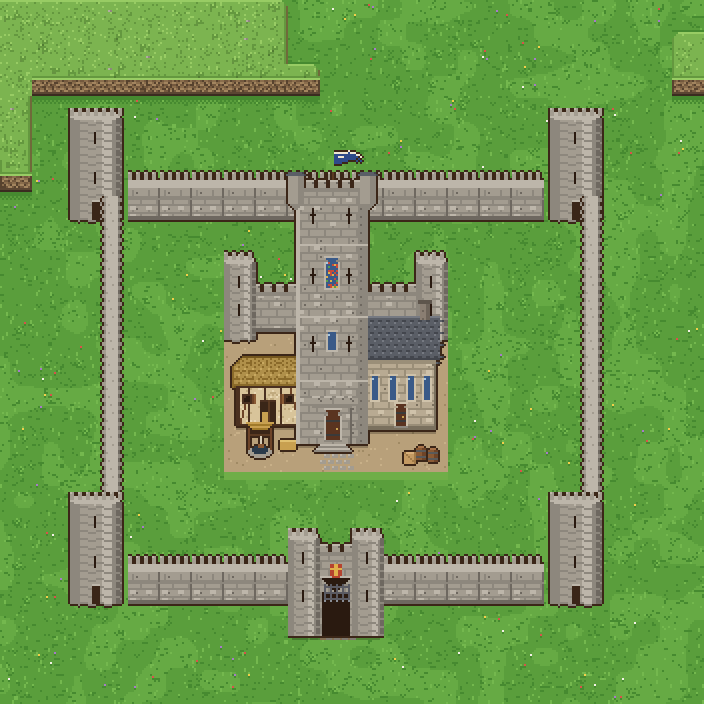
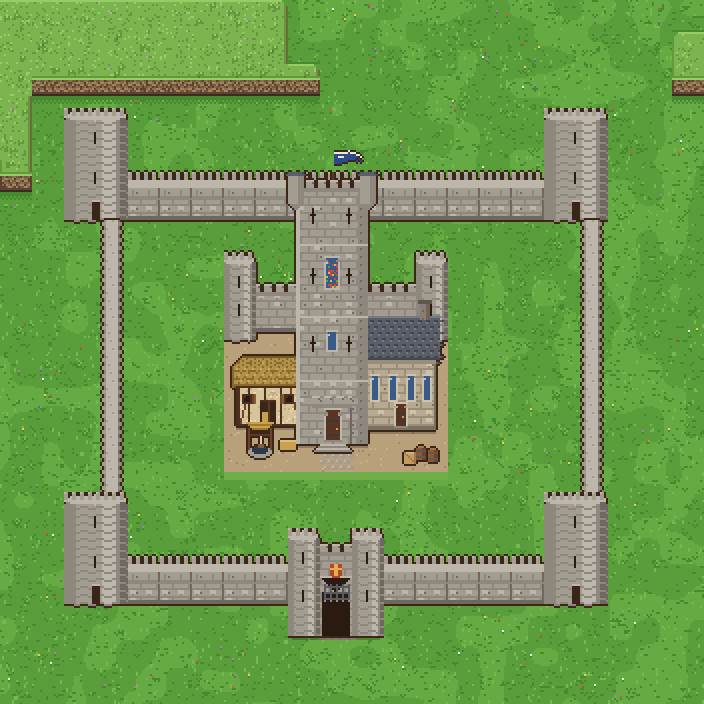
Walls meet towers flush
Wall towers now fill their whole 2x2 footprint so walls on either side join
without a gap, and a wall running south from a tower or gatehouse stops at
its foot instead of drawing over it.

Claude-Session: https://claude.ai/code/session_01En57BVTbLShKdkzFFmpxgZ

diff --git a/Assets/Scripts/Game/Art/BuildingArt.Medieval.cs b/Assets/Scripts/Game/Art/BuildingArt.Medieval.cs
@@ -324,12 +324,12 @@ namespace MedievalTown.Game.Art
         static void Wall(Ctx k)
         {
             var tg = k.Tg; bool W = k.Winter; int m = k.V; int y0 = k.Y(0);
-            bool n = (m & 1) != 0, e = (m & 2) != 0, s = (m & 4) != 0, w = (m & 8) != 0;
+            bool n = (m & 1) != 0, e = (m & 2) != 0, s = (m & 4) != 0, w = (m & 8) != 0, northBig = (m & 16) != 0;
             const int faceTop = -2, faceH = 16;   // relative to y0: the front face of a wall running east-west
             // a wall running north-south: its walkway seen from above, edged with merlons
             if (n || s)
             {
-                int ya = n ? 0 : y0 - 6, yb = s ? k.H : y0 + faceTop;
+                int ya = n ? (northBig ? y0 - 2 : 0) : y0 - 6, yb = s ? k.H : y0 + faceTop;   // a tower to the north covers the joint, so stop at its foot
                 tg.R(4, ya, 8, yb - ya, StoneC[2]);
                 for (int y = ya; y < yb; y++) { tg.D(4, y, StoneC[1]); tg.D(11, y, StoneC[3]); if (y % 4 == 0) tg.D(5 + (y / 4) % 6, y, StoneC[0]); }
                 for (int y = ya + 1; y < yb - 1; y += 4) { tg.R(3, y, 2, 2, StoneC[0]); tg.R(11, y, 2, 2, StoneC[1]); if (W) { tg.D(3, y - 1, SNOW); tg.D(12, y - 1, SNOW); } }
@@ -359,7 +359,7 @@ namespace MedievalTown.Game.Art
         {
             var tg = k.Tg; bool W = k.Winter; int y0 = k.Y(0);
             Shadow(tg, 3, y0 + 29, 26);
-            RoundTower(tg, 16, y0 - 22, y0 + 30, 13, W);
+            RoundTower(tg, 16, y0 - 22, y0 + 30, 16, W);
             tg.R(14, y0 + 20, 4, 10, "#3a2618"); tg.R(14, y0 + 20, 4, 1, StoneC[2]);   // a low postern door
             k.M.PileAt = new Vector2Int(-1, -1);
         }

diff --git a/Assets/Scripts/Game/Art/BuildingArt.cs b/Assets/Scripts/Game/Art/BuildingArt.cs
@@ -61,12 +61,12 @@ namespace MedievalTown.Game.Art
             }
         }
 
-        public static int VariantOf(Building b) { return b.Type == BuildingType.Cottage || b.Type == BuildingType.FreeHouse ? b.Id % 3 : b.Type == BuildingType.Wall ? b.Mask & 15 : 0; }
+        public static int VariantOf(Building b) { return b.Type == BuildingType.Cottage || b.Type == BuildingType.FreeHouse ? b.Id % 3 : b.Type == BuildingType.Wall ? b.Mask & 31 : 0; }
 
         static readonly Dictionary<int, BuildingSprites> cache = new Dictionary<int, BuildingSprites>();
         public static BuildingSprites Get(BuildingType type, int variant, int season)
         {
-            int key = ((int)type * 16 + variant) * 4 + season;
+            int key = ((int)type * 64 + variant) * 4 + season;
             BuildingSprites s;
             if (!cache.TryGetValue(key, out s)) { s = Make(type, variant, season); cache[key] = s; }
             return s;
@@ -360,7 +360,7 @@ namespace MedievalTown.Game.Art
         /// </summary>
         public static SiteSprites Site(BuildingType type, int variant, int season, int step)
         {
-            int key = (((int)type * 16 + variant) * 4 + season) * 32 + step;
+            int key = (((int)type * 64 + variant) * 4 + season) * 32 + step;
             SiteSprites s;
             if (siteCache.TryGetValue(key, out s)) return s;
             var full = Get(type, variant, season);

diff --git a/Assets/Scripts/Simulation/Model.cs b/Assets/Scripts/Simulation/Model.cs
@@ -38,7 +38,7 @@ namespace MedievalTown.Simulation
         // Taxes: what a household owes and hasn't yet handed to the reeve; the coin in the bailiff's chest
         public float OwedGrain, OwedCoin, Arrears;
         public float Coin;
-        public int Mask;                 // walls: which neighbours they join (1 north, 2 east, 4 south, 8 west)
+        public int Mask;                 // walls: which neighbours they join (1 north, 2 east, 4 south, 8 west; 16: the north one is a tower or gate)
 
         public BuildingDef Def { get { return Defs.Get(Type); } }
         public bool Contains(int tx, int ty)
@@ -80,7 +80,7 @@ namespace MedievalTown.Simulation
         public float Loyalty = Balance.LoyaltyStart;   // to the lord of the manor
         public float Piety = 40f;
         public float Coin;
-        public int Mask;                 // walls: which neighbours they join (1 north, 2 east, 4 south, 8 west)
+        public int Mask;                 // walls: which neighbours they join (1 north, 2 east, 4 south, 8 west; 16: the north one is a tower or gate)
         public float Seed;               // 0..1, drives looks and small quirks
         public int ArrivedDay;
         public int MassDay = -999;       // last Sunday at mass

diff --git a/Assets/Scripts/Simulation/Town.cs b/Assets/Scripts/Simulation/Town.cs
@@ -320,6 +320,8 @@ namespace MedievalTown.Simulation
                     var w = OccupantAt(x, y);
                     if (w == null || w.Type != BuildingType.Wall) continue;
                     w.Mask = WallAt(x, y - 1, w) * 1 + WallAt(x + 1, y, w) * 2 + WallAt(x, y + 1, w) * 4 + WallAt(x - 1, y, w) * 8;
+                    var north = OccupantAt(x, y - 1);
+                    if (north != null && north.Def.IsWall && north.Type != BuildingType.Wall) w.Mask |= 16;   // a tower or gatehouse to the north covers the joint
                 }
         }
         int WallAt(int x, int y, Building self) { var o = OccupantAt(x, y); return o != null && o != self && o.Def.IsWall ? 1 : 0; }
